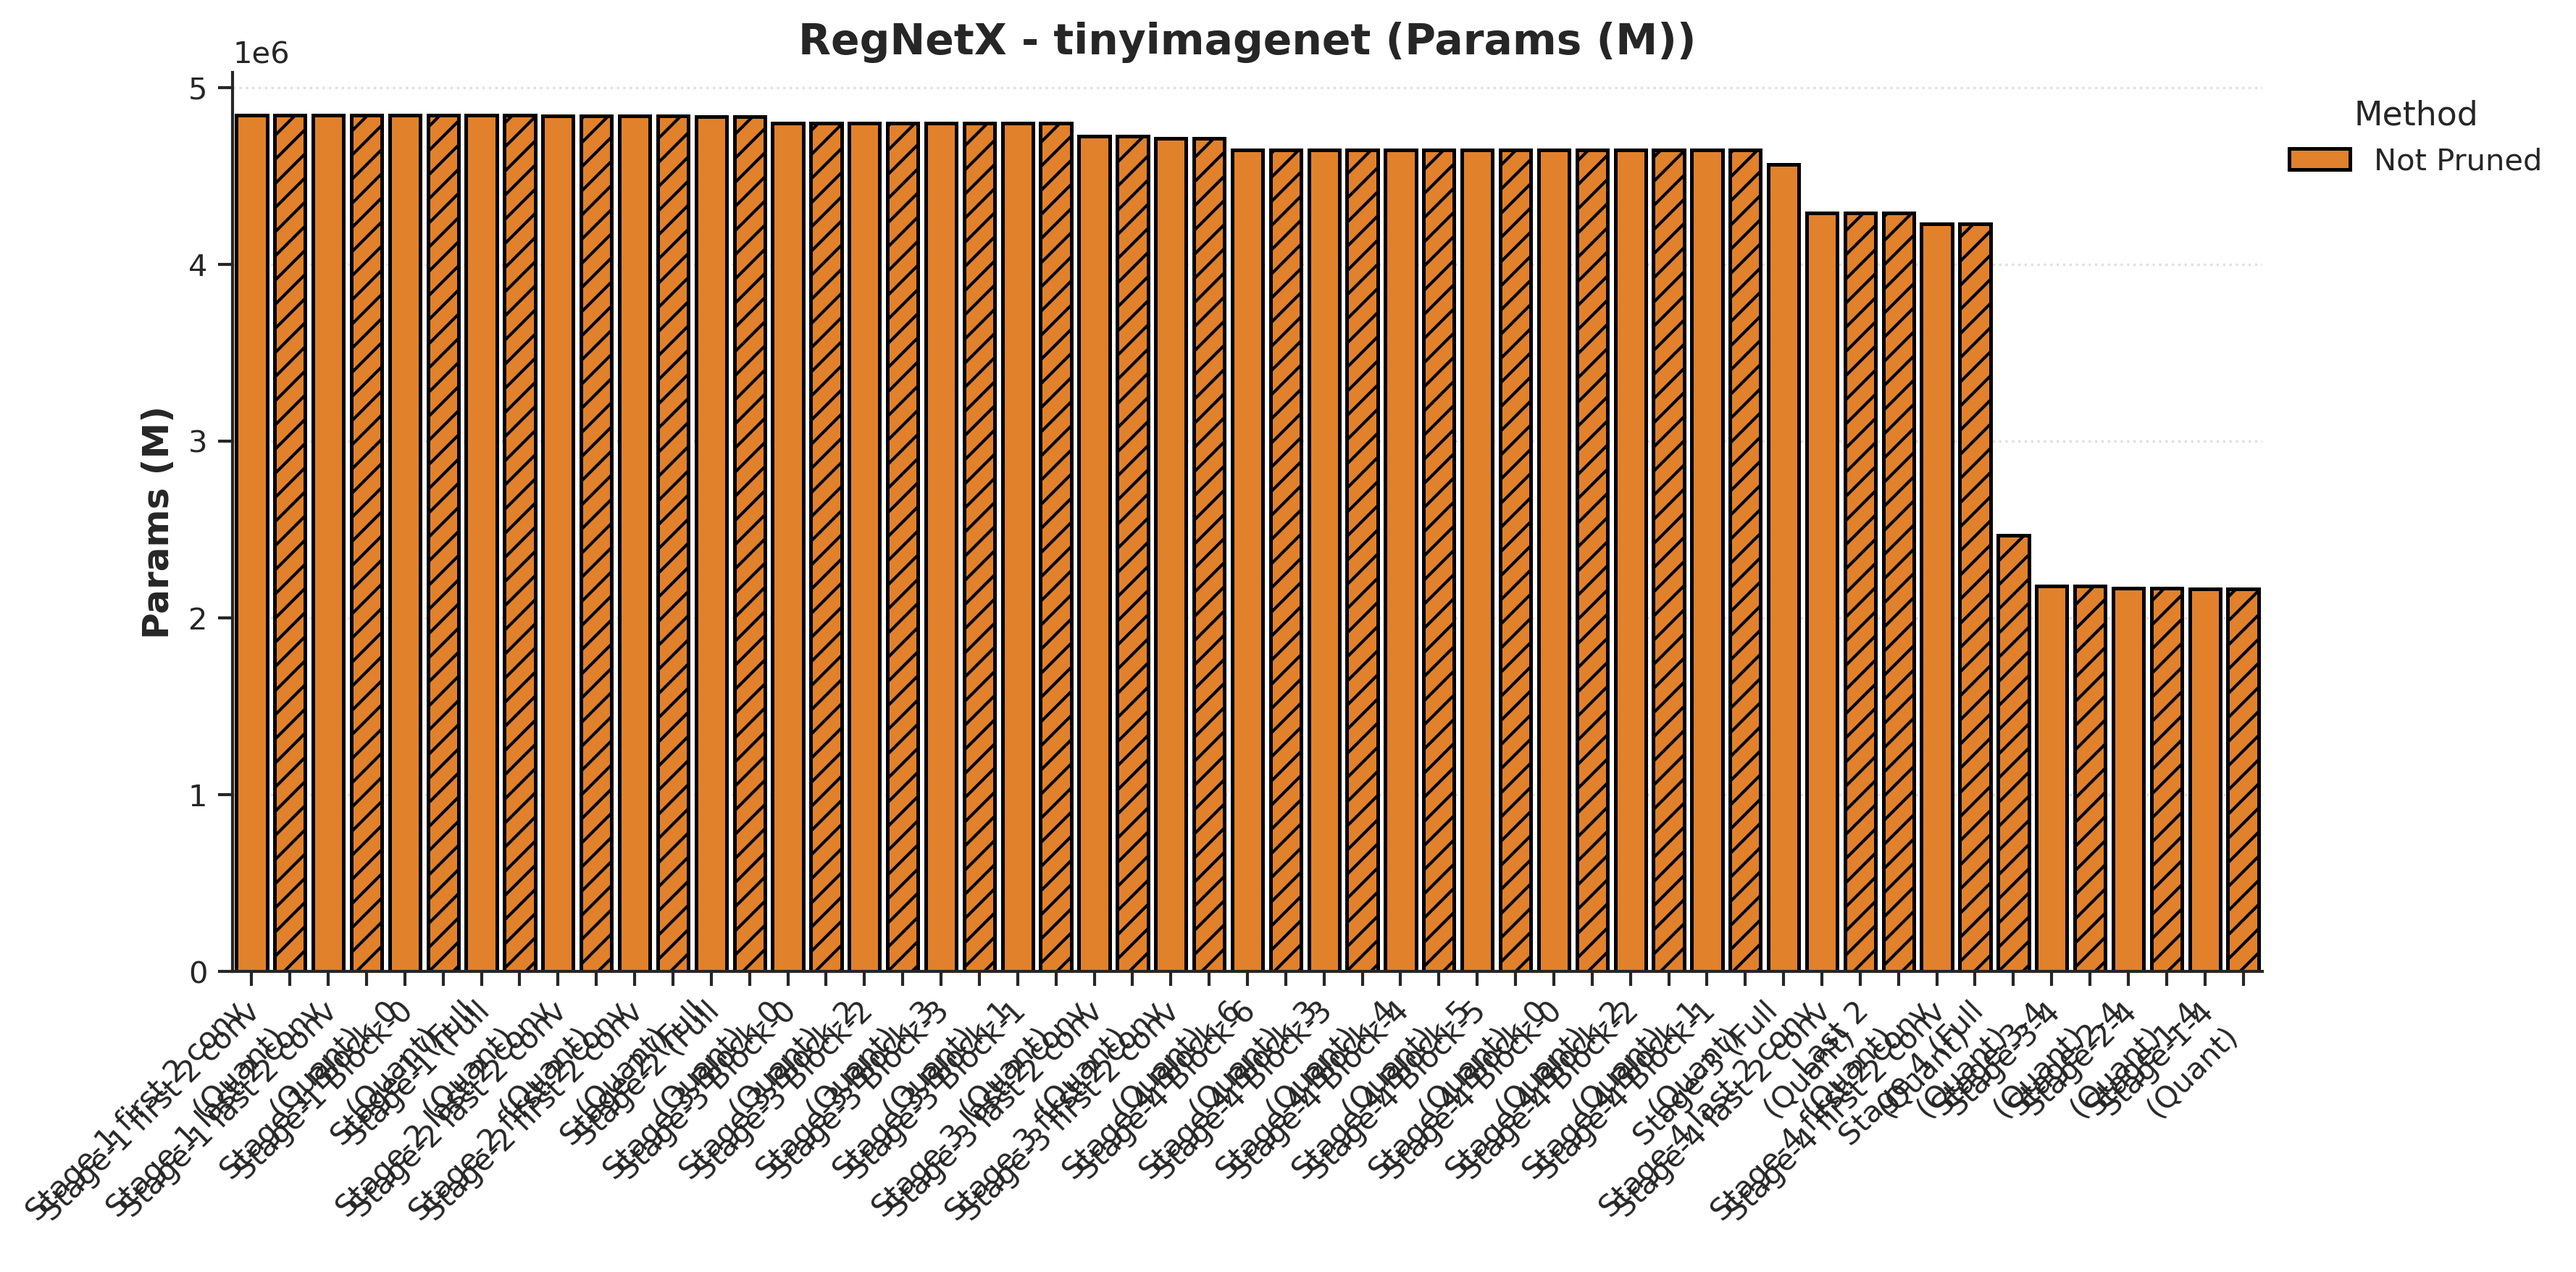
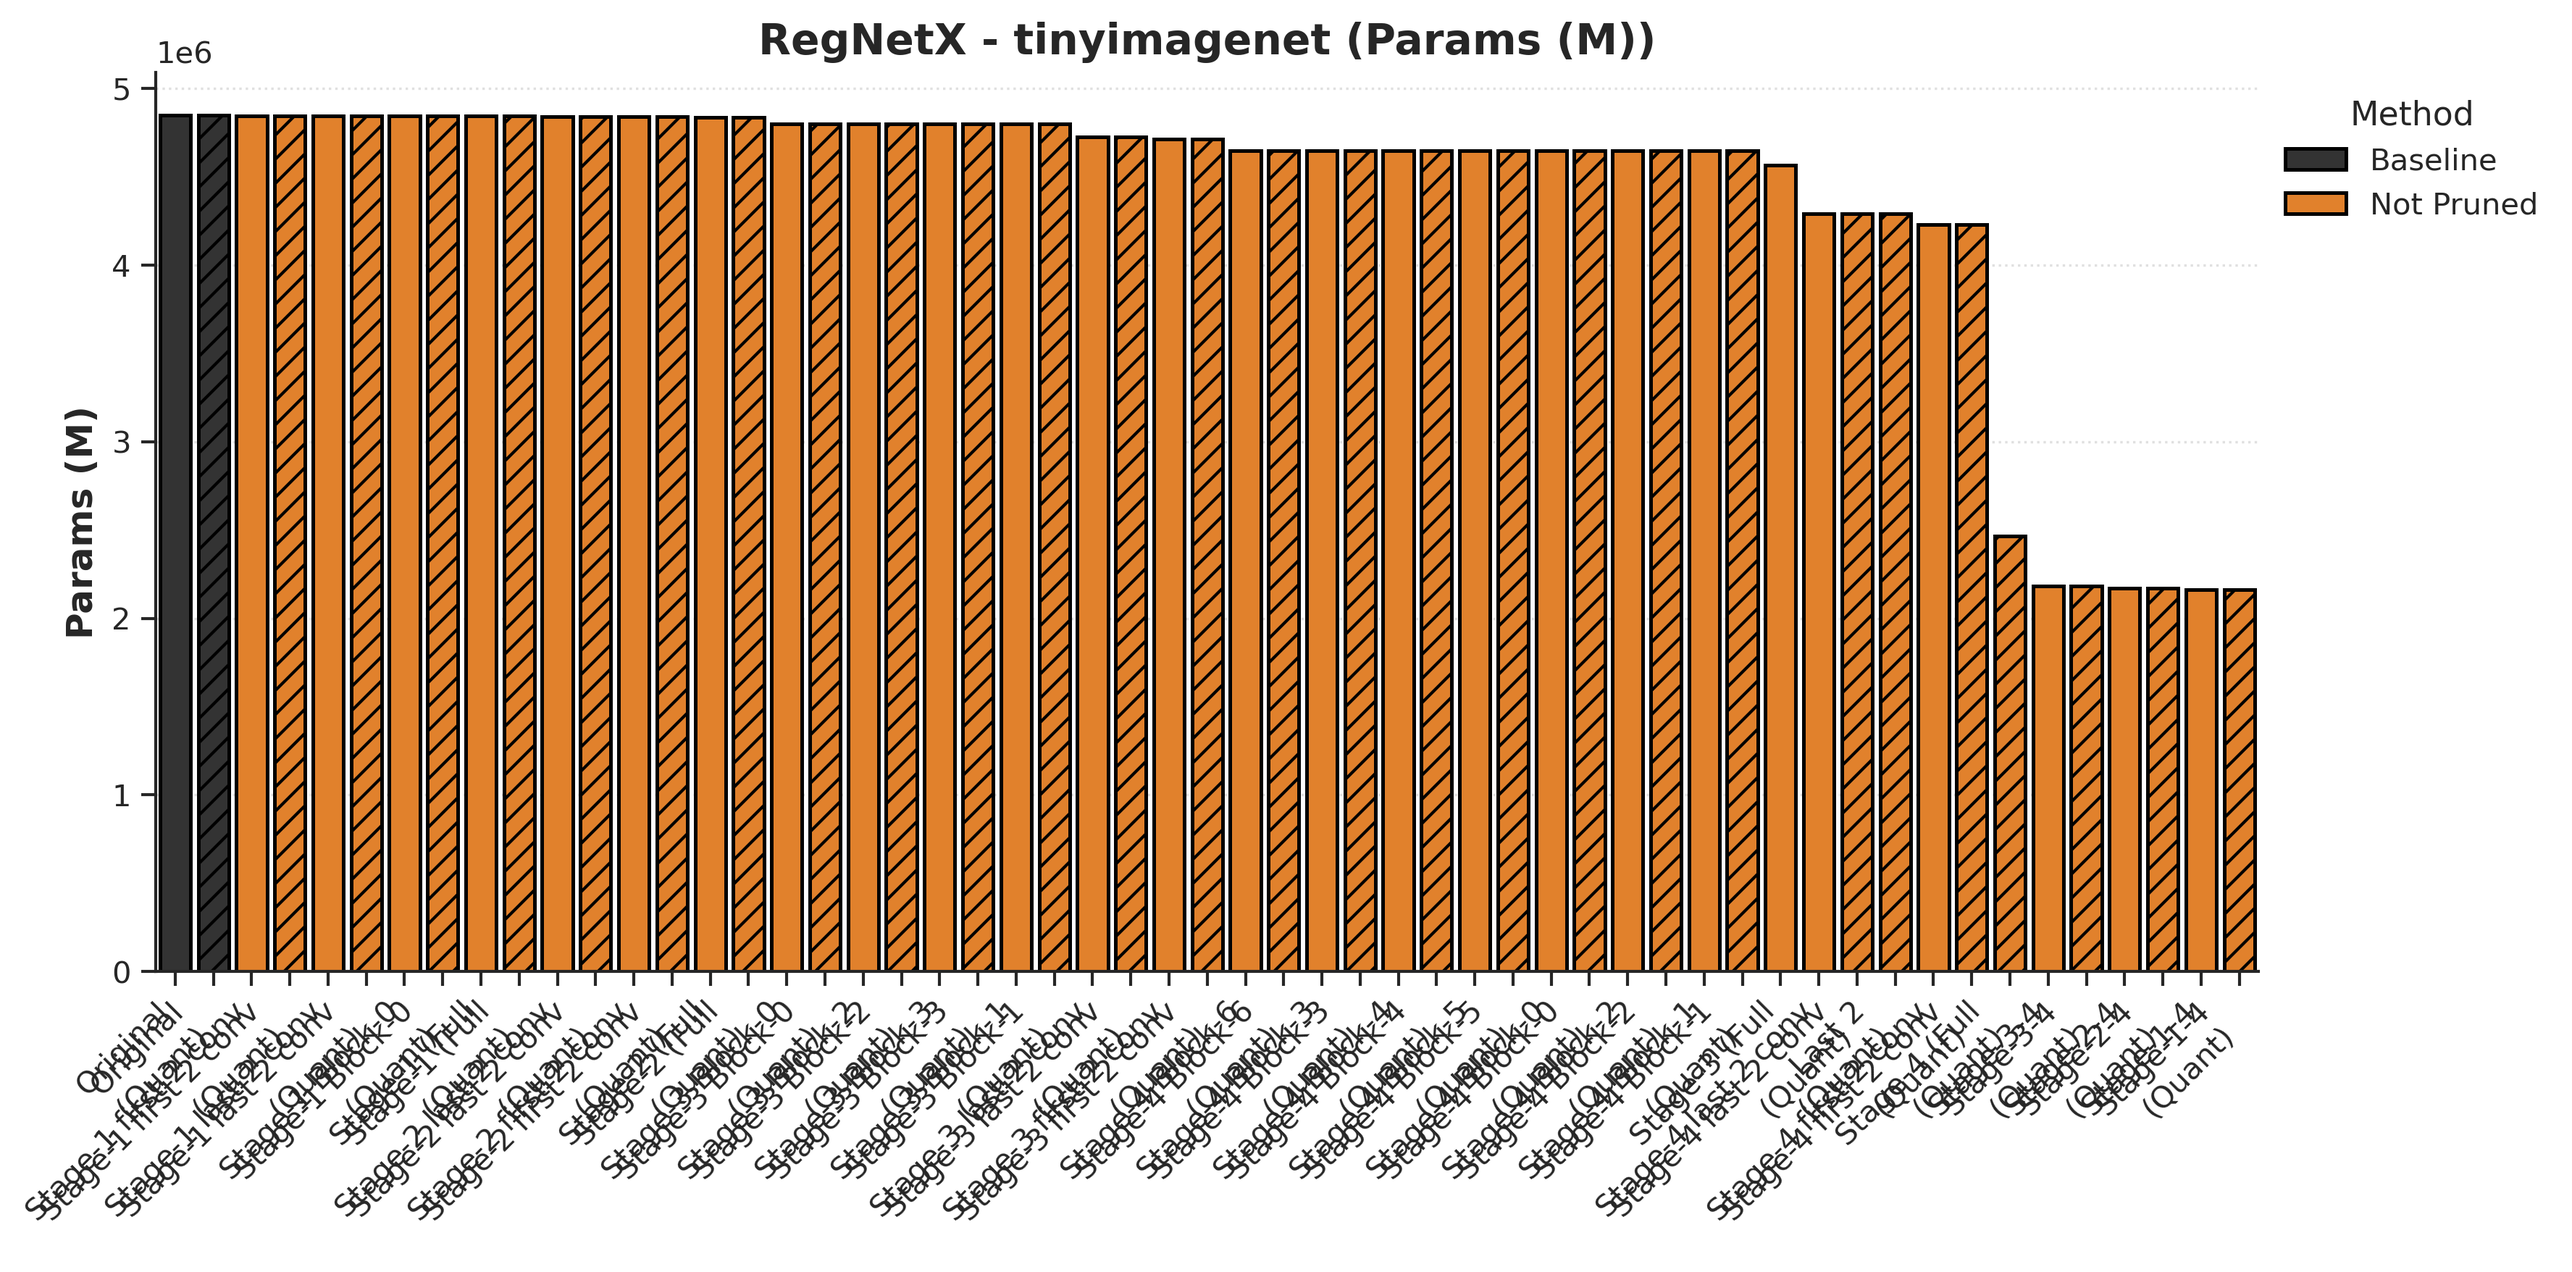
updates

diff --git a/manuscript/Tranfer/figures/individual_plots/Xception_tinyimagenet_unquantized_table.tex b/manuscript/Tranfer/figures/individual_plots/Xception_tinyimagenet_unquantized_table.tex
@@ -5,7 +5,7 @@
 \toprule
 Model & Type & Accuracy (\%) & Params (M) & GFLOPs & Memory (MB) \\
 \midrule
-Original & Baseline & 66.84 & 21.22 & 24.15 & 827.39 \\
+Original & Baseline & 72.84 & 21.22 & 24.15 & 827.39 \\
 Stage-1 (Full & Collapsed & 72.70 & 20.65 & 78.91 & 1875.88 \\
 Stage-2 (Full & Collapsed & 75.19 & 19.85 & 259.97 & 5511.50 \\
 Stage-3 (Full & Collapsed & 68.64 & 5.2038 & 83.92 & 1372.50 \\

diff --git a/manuscript/Tranfer/figures/individual_plots/RegNetX_tinyimagenet_unquantized_table.tex b/manuscript/Tranfer/figures/individual_plots/RegNetX_tinyimagenet_unquantized_table.tex
@@ -5,6 +5,7 @@
 \toprule
 Model & Type & Accuracy (\%) & Params (M) & GFLOPs & Memory (MB) \\
 \midrule
+Original & Baseline & 45.64 & 4.8495 & 2.1135 & 184.02 \\
 Stage-1 first 2 conv & Not Pruned & 37.01 & 4.8449 & 2.0401 & 171.14 \\
 Stage-1 last 2 conv & Not Pruned & 37.33 & 4.8449 & 2.0936 & 189.14 \\
 Stage-1 Block-0 & Not Pruned & 36.63 & 4.8438 & 2.0223 & 165.14 \\

diff --git a/manuscript/Tranfer/figures/individual_plots/RegNetX_tinyimagenet_quantized_table.tex b/manuscript/Tranfer/figures/individual_plots/RegNetX_tinyimagenet_quantized_table.tex
@@ -5,6 +5,8 @@
 \toprule
 Model & Type & Accuracy (\%) & Params (M) & GFLOPs & Memory (MB) \\
 \midrule
+Original
+(Quant) & Baseline & 24.09 & 4.8495 & 2.1135 & 92.01 \\
 Stage-1 first 2 conv
 (Quant) & Not Pruned & 0.5000 & 4.8449 & 2.0401 & 85.57 \\
 Stage-1 last 2 conv
